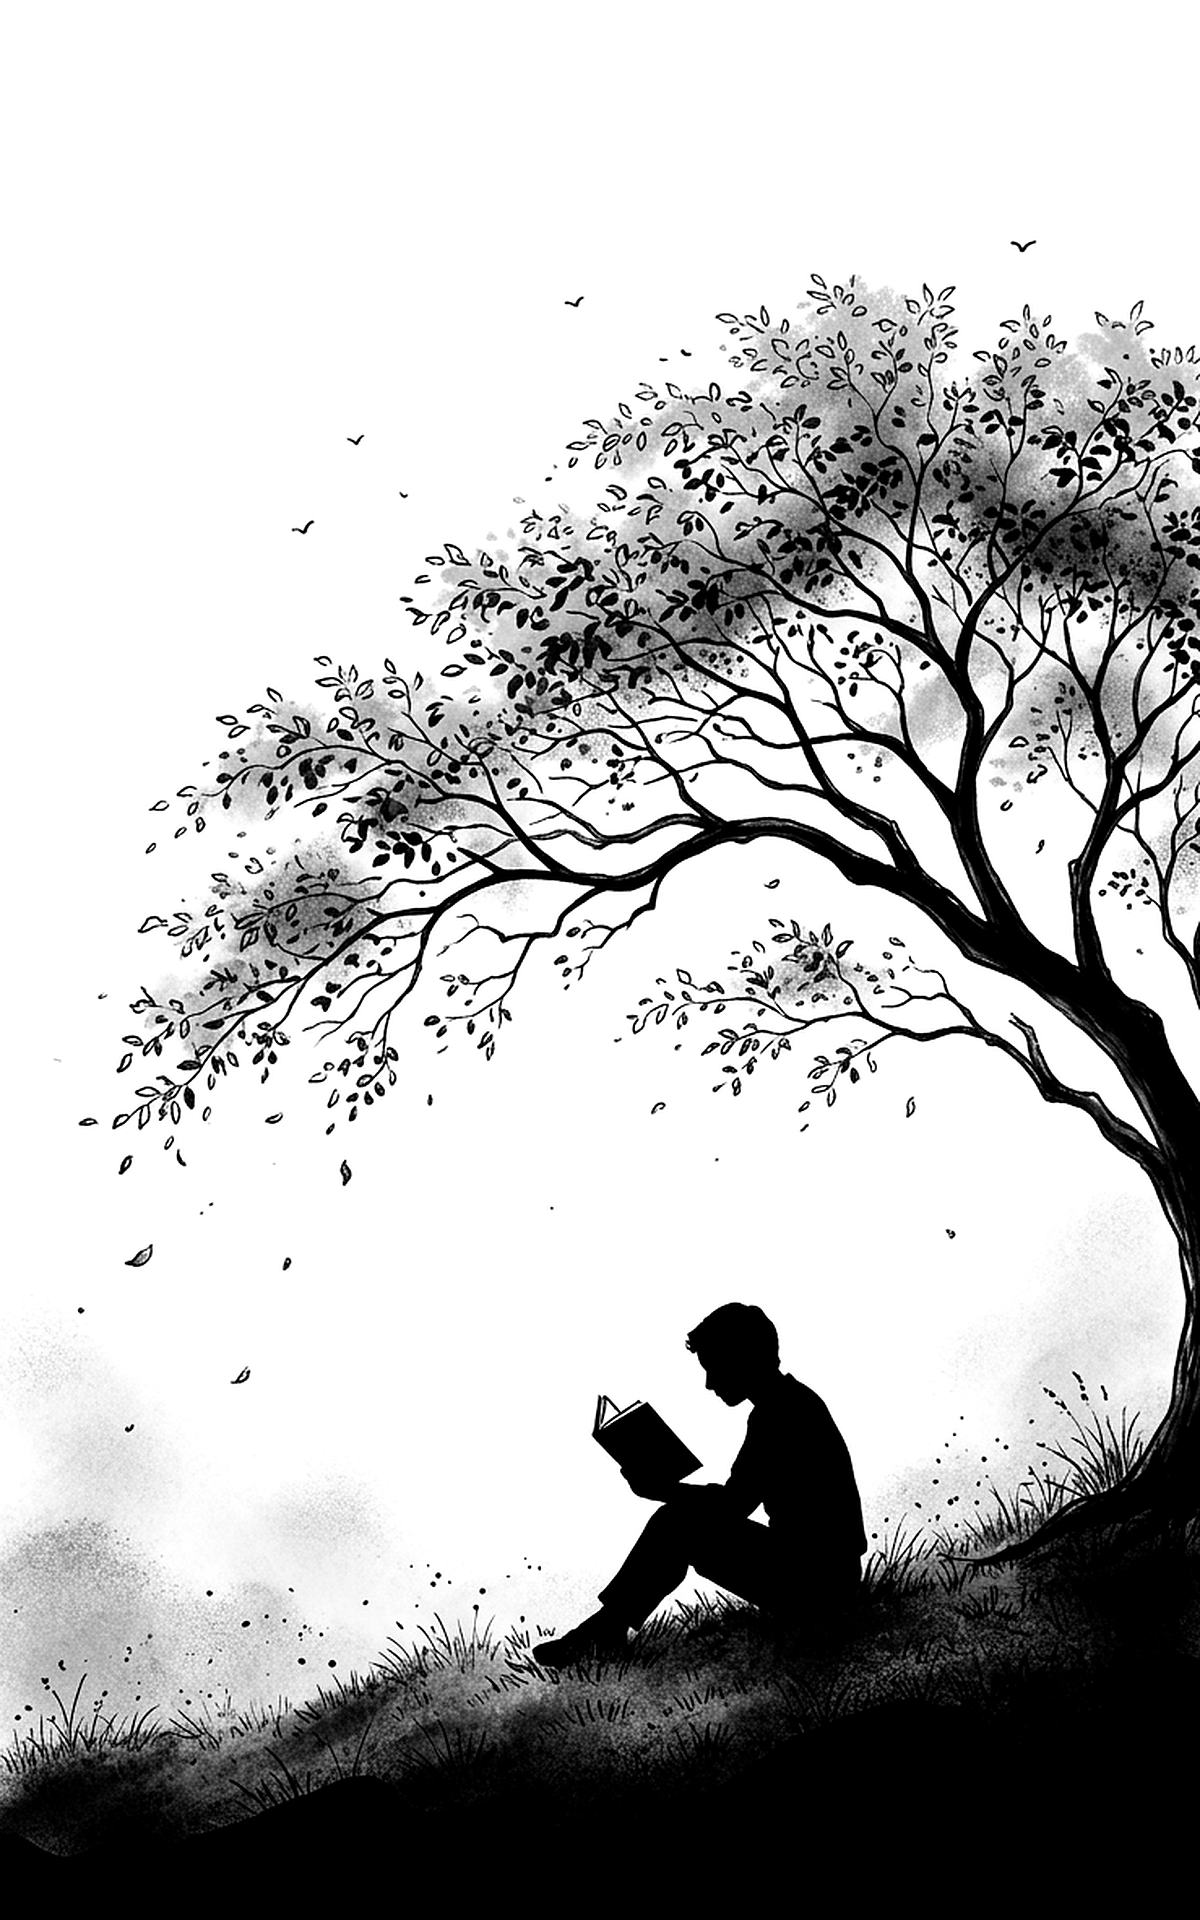
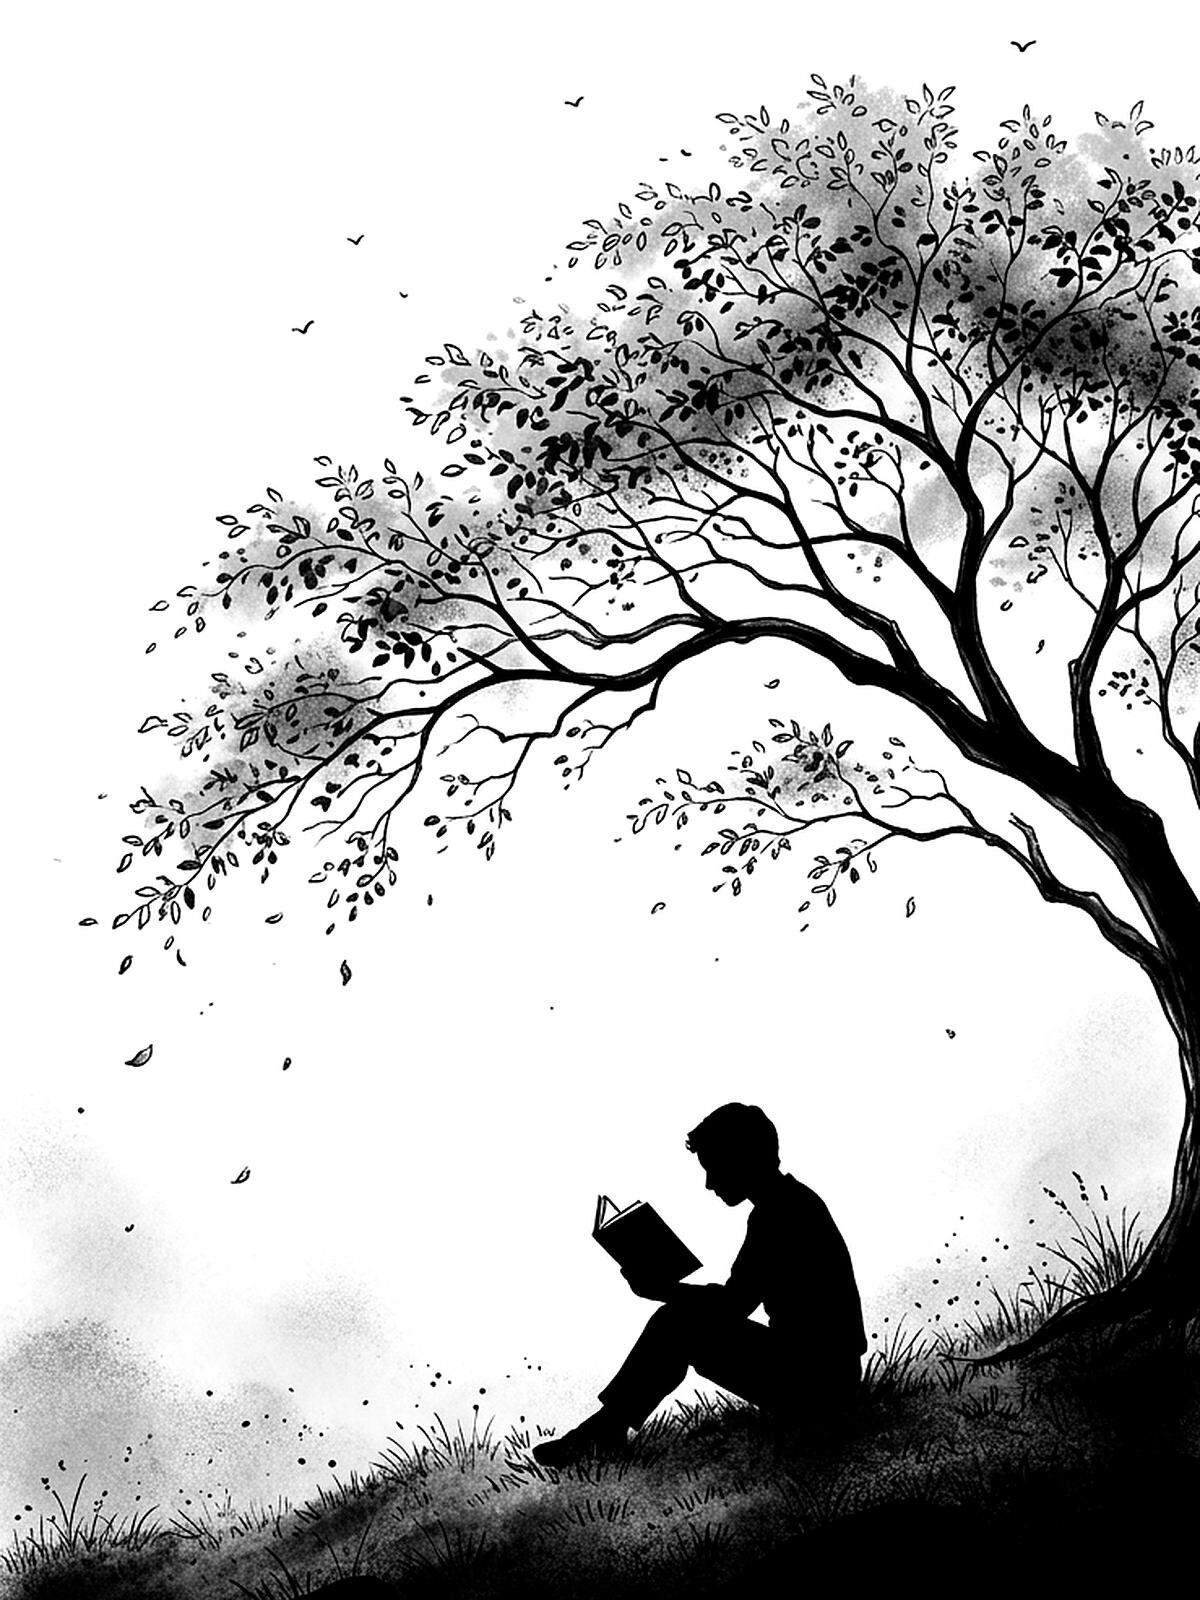
fix(kindle): crop EPUB cover to 3:4 to fill Kindle screens (#46)
The 1200x1920 cover was narrower than 300 ppi Kindle screens (Colorsoft 1264x1680), leaving side bands. Crop to 1200x1600.

diff --git a/internal/epub/toc_test.go b/internal/epub/toc_test.go
@@ -24,8 +24,8 @@ func TestNewBuilderDefaultsToEmbeddedCover(t *testing.T) {
 		t.Fatalf("embedded cover is not a JPEG: %v", err)
 	}
 
-	if cfg.Width != 1200 || cfg.Height != 1920 {
-		t.Fatalf("embedded cover is %dx%d, want 1200x1920", cfg.Width, cfg.Height)
+	if cfg.Width != 1200 || cfg.Height != 1600 {
+		t.Fatalf("embedded cover is %dx%d, want 1200x1600", cfg.Width, cfg.Height)
 	}
 }
 

diff --git a/.agents/skills/reader-spec/kindle.md b/.agents/skills/reader-spec/kindle.md
@@ -8,7 +8,7 @@ Packages all unread saved pages and unread feed items into an EPUB 3 book and em
 - `KD-SEND-2`: Collects all unread saved pages (`id ASC`) followed by unread feed items: first feeds inside folders, grouped by folder (`(name ASC, id ASC)`, `FD-FOLDER-5`), then top-level feeds; within each group, feeds by `(title ASC, id ASC)`, each feed's items in its stored `order`. If 0 unread items exist, records `succeeded` with `articleCount = 0, bookCount = 0` and sends no email.
 - `KD-TEXT-1`: Saved pages use stored `content`. Feed items with `readerMode == "default"` use `content`, else `description`, else heading only. Items with `readerMode == "extracted"` use cached `extractedContent`, or extract once via webpage extraction (`CM-FETCH-1`) and cache it; extraction failures fall back to `default` content without failing the send.
 - `KD-BOOK-1`: Builds an EPUB 3 (`title: Lantern YYYY-MM-DD` and file `lantern-YYYY-MM-DD.epub` for scheduled sends, the schedule-local date of the occurrence the send was claimed for (snapshotted at claim, not the time the job runs); manual sends carry no date: `Lantern` / `lantern.epub`; `language`: the saved primary language (`SET-KINDLE-1`, snapshotted with the delivery settings at claim) as `dc:language` and every document's `lang`) incrementally, spooling each book's compressed chapters and images to `0600` temp files in a private `0700` instance spool directory (cleaned on startup alongside running-row recovery, bounded by a `512 MiB` per-job spool quota, and removed on completion, failure, or cancellation) before streaming the final ZIP with its resolved title. Images are fetched with SSRF protection (`CM-FETCH-2`), bounded concurrency, and a single per-job image-preparation timeout budget (once expired, remaining images are stripped without failing the send); unsupported/failed images (only JPEG/PNG/GIF kept) and images exceeding the per-book cumulative image budget (`32 MiB`) are stripped from that chapter without failing the build. Oversized JPEG/PNG images (`> 1200×1600` or `> 128 KiB`, guarded by a max decode dimension/pixel cap and decode-memory budget including Adam7 pass buffers for interlaced PNGs) are proportionally downscaled to fit `1200×1600` over a white background and re-encoded as JPEG (`Quality: 75`) whenever the re-encoded payload is smaller than the original.
-- `KD-BOOK-2`: Every book (each split part too) starts with the static cover `internal/epub/cover.jpg` (embedded, 1200×1920 baseline JPEG, stored uncompressed, outside the per-book image budget; OPF `cover-image` + `<meta name="cover">`), followed by a readable TOC page (`nav.xhtml` in the spine, heading per `KD-BOOK-4`), then the articles. The spine is cover → TOC → chapters; landmarks and the OPF `guide` point to the cover, the TOC, and the first chapter (`text`) as the reading start.
+- `KD-BOOK-2`: Every book (each split part too) starts with the static cover `internal/epub/cover.jpg` (embedded, 1200×1600 (3:4, matching the 300 ppi Kindle screens such as Colorsoft/Paperwhite) baseline JPEG, stored uncompressed, outside the per-book image budget; OPF `cover-image` + `<meta name="cover">`), followed by a readable TOC page (`nav.xhtml` in the spine, heading per `KD-BOOK-4`), then the articles. The spine is cover → TOC → chapters; landmarks and the OPF `guide` point to the cover, the TOC, and the first chapter (`text`) as the reading start.
 - `KD-BOOK-3`: The TOC (`nav.xhtml` and `toc.ncx`, `dtb:depth = 2`) has two levels: sections, each linking to its first article, with that section's articles beneath. Saved pages form a section named in the book's primary language (`稍后阅读` / `Read Later` / `後で読む`); feed items in a folder form one section named after the folder (its feeds' articles listed in `KD-SEND-2` order, no per-feed level); top-level feeds each form a section named after the feed title. Each split book builds its own TOC, so a section that spans books reappears in the next book.
 - `KD-BOOK-4`: The book's fixed text follows its primary language — TOC heading and landmark / guide labels for cover, TOC, and start, the title of untitled articles, and the article-meta source link: `zh` `目录` / `封面` / `正文` / `无标题` / `原文链接`; `en` `Contents` / `Cover` / `Start` / `Untitled` / `Original article`; `ja` `目次` / `表紙` / `本文` / `無題` / `元の記事`. Articles carry no language of their own.
 - `KD-SPLIT-1`: Max EPUB size is `20 MiB`. Unread articles are loaded one by one and packed sequentially in book order via greedy packing: a book accepts the next article while its running archive upper-bound estimate stays well below `20 MiB`, and near the limit while its measured archive size (evaluated with a padded numbered title upper bound, shared book identifier/timestamp, and a counting writer that aborts as soon as `20 MiB` is crossed) stays `<= 20 MiB`, rolling overflow into the next book. Books are numbered when split into multiple parts (scheduled: `Lantern YYYY-MM-DD (i/N)`, `lantern-YYYY-MM-DD-i.epub`; manual: `Lantern (i/N)`, `lantern-i.epub`). If a single article with images exceeds `20 MiB`, it is retried text-only; if still over `20 MiB`, the send fails.
